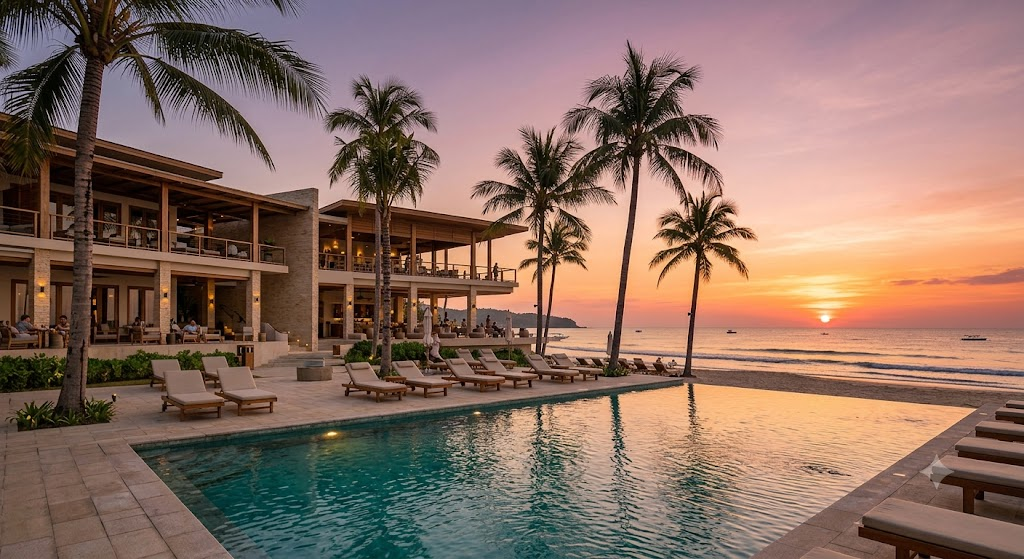
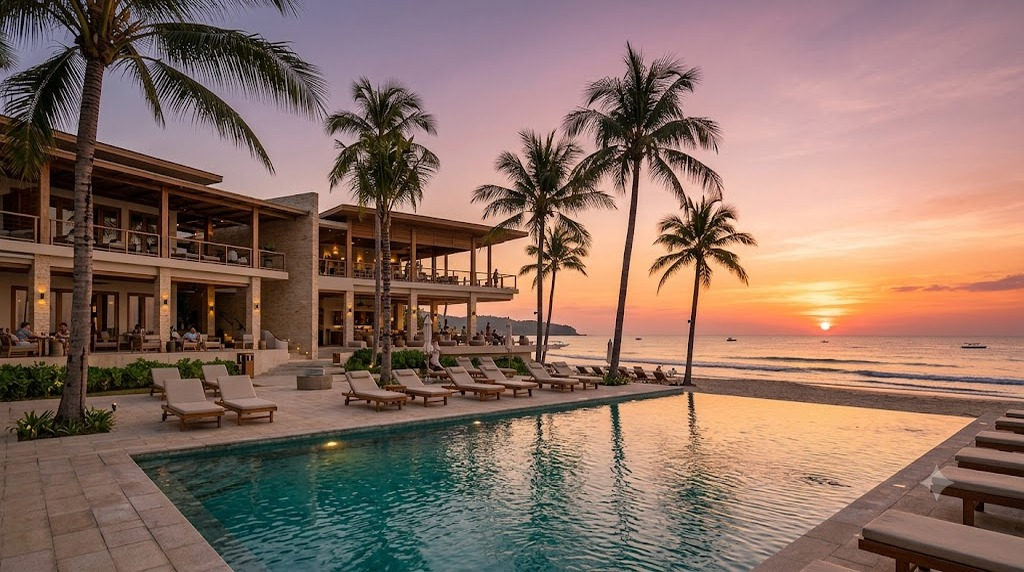
GITTTTTTTTTTT  GIIIIITTTTTT

diff --git a/artifacts/sama-senegal/src/components/AdminDashboard.tsx b/artifacts/sama-senegal/src/components/AdminDashboard.tsx
@@ -42,11 +42,7 @@ type Section =
   | "whatsapp_templates" | "email_templates" | "destinations" | "events"
   | "hero_videos";
 
-const DEFAULT_TEMOIGNAGES = [
-  { id: 1, name: "Sophie L.", country: "France", text: "Une expérience inoubliable. Bachirou nous a fait vivre la vraie âme de Gorée.", rating: 5, active: true },
-  { id: 2, name: "James K.", country: "UK", text: "Best tour guide in Dakar. Incredible knowledge and warmth.", rating: 5, active: true },
-  { id: 3, name: "María R.", country: "España", text: "Bachirou es excepcional. La visita a Gorée fue mágica.", rating: 5, active: true },
-];
+const DEFAULT_TEMOIGNAGES: any[] = [];
 
 function useLocalData<T>(key: string, defaults: T): [T, (v: T) => void] {
   const [data, setData] = useState<T>(() => {
